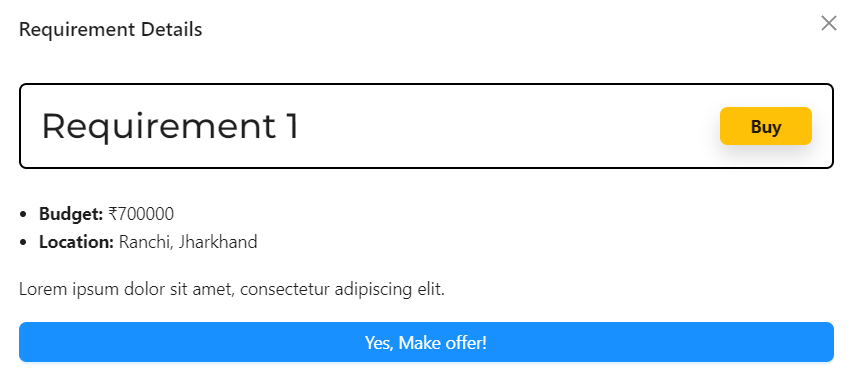
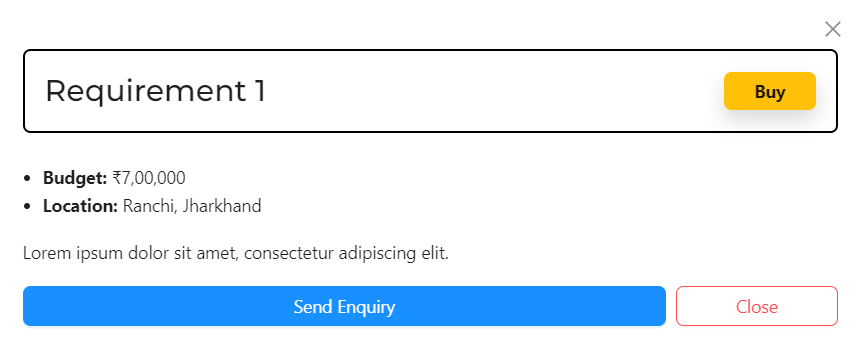
some pic changes

diff --git a/src/components/StepsForRequirement.tsx b/src/components/StepsForRequirement.tsx
@@ -140,23 +140,15 @@ const StepsForRequirement: React.FC = () => {
                 type="primary"
                 style={{ marginRight: "8px" }}
                 onClick={prevStep}
-                >
-                <strong>Previous</strong>
-                </Button>
+                />
             )}
             {currentStep < steps.length - 1 && (
                 <Button
-                size={"large"}
-                type="primary"
-                style={{
-                    display: "flex",
-                    alignItems: "center",
-                    justifyContent: "space-between",
-                }}
-                onClick={nextStep}
-                >
-                <strong>Next</strong> <ArrowRightOutlined />
-                </Button>
+                  size={"large"}
+                  type="primary"
+                  onClick={nextStep}
+                  icon={<ArrowRightOutlined />}
+                />
             )}
             {currentStep == steps.length - 1 && (
                 <Link to="/postrequirement" className="btn btn-warning">

diff --git a/src/components/StepsForAdvertisement.tsx b/src/components/StepsForAdvertisement.tsx
@@ -142,23 +142,15 @@ const StepsForAdvertisement: React.FC = () => {
               type="primary"
               style={{ marginRight: "8px" }}
               onClick={prevStep}
-            >
-              <strong>Previous</strong>
-            </Button>
+            />
           )}
           {currentStep < steps.length - 1 && (
             <Button
               size={"large"}
               type="primary"
-              style={{
-                display: "flex",
-                alignItems: "center",
-                justifyContent: "space-between",
-              }}
               onClick={nextStep}
-            >
-              <strong>Next</strong> <ArrowRightOutlined />
-            </Button>
+              icon={<ArrowRightOutlined />}
+            />
           )}
           {currentStep == steps.length - 1 && (
             <Link to="/postadd" className="btn btn-warning">

diff --git a/src/components/ExpandCard.tsx b/src/components/ExpandCard.tsx
@@ -56,7 +56,7 @@ const ExpandCard: React.FC<Props> = ({ item, page, handleCancel }) => {
 
   return (
     <div className="property-card">
-      {item.image !== undefined && (<div className="property-image">
+      {(item.image !== undefined && item.image !== '') && (<div className="property-image">
         <img src={item.image} className='rounded w-100' alt={item.title} />
       </div>)}
       <div className="property-details">
